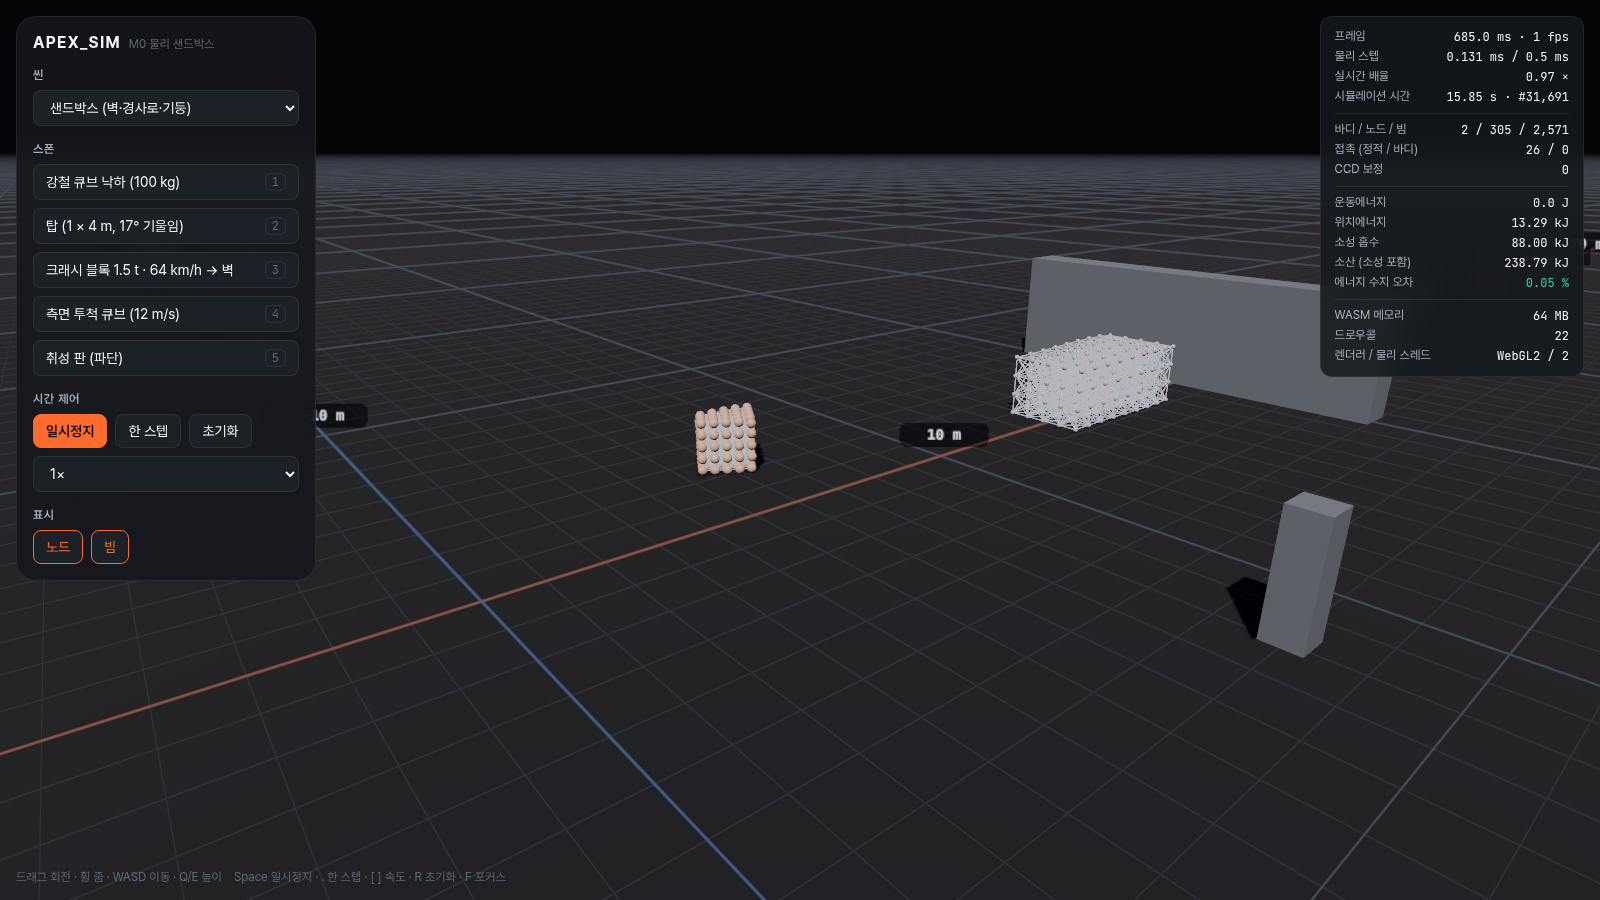
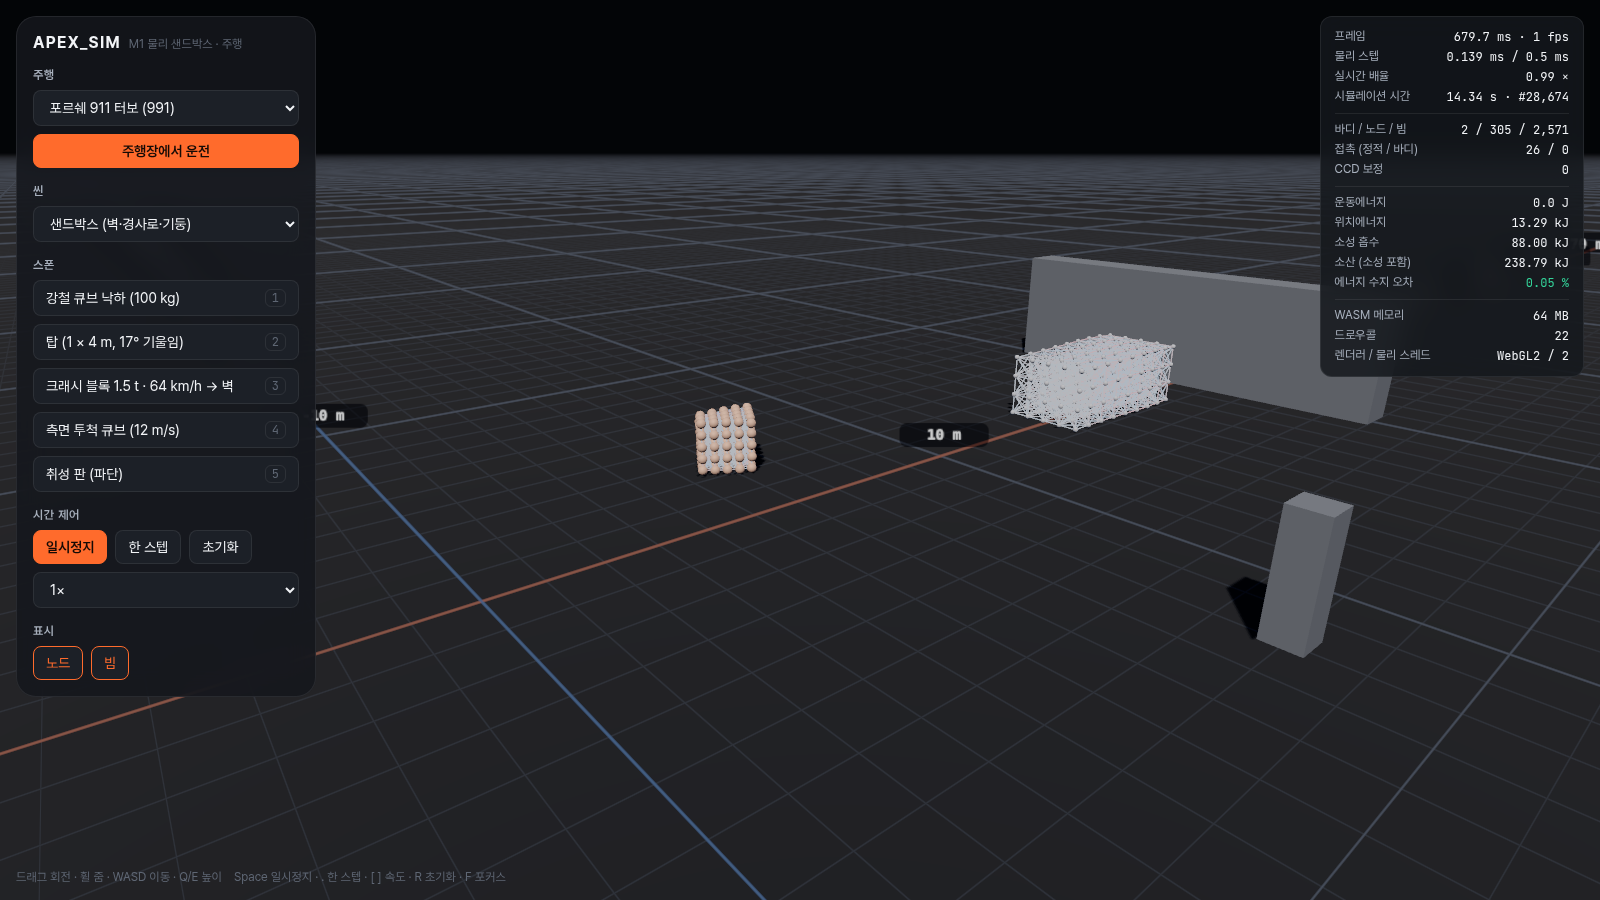
작업 스레드 풀 시작 경쟁 수정, 주행 E2E를 텔레메트리 기반으로, 주행 모드 패널 숨김
- JobSystem: 워커가 스케줄된 뒤 세대 번호를 읽어, 새 스레드가 돌기 전에 시작된 첫 병렬 구간을
  건너뛰고 호출 스레드가 영원히 기다리던 문제(부하 중 결정론 테스트 멈춤). 생성 시점 세대로 시작
- E2E 주행: 헤드리스 렌더가 초당 약 1프레임이라 입력이 늦게 닿아 차가 300 m 앞 벽까지 달려
  충돌·전복했다. 각 단계를 속도·방향 텔레메트리로 끝내고, 정지 직전에 브레이크를 놓는다(후진 선택 방지)
- [hidden]이 컴포넌트의 display 규칙을 이기게 함(주행 모드에서 샌드박스 패널이 보이던 문제)
- 아티팩트 해시 경로에 차량 선택(#drive.<id>), M1 보고서·CHANGELOG 갱신

Claude-Session: https://claude.ai/code/session_01FHJ8hXFhW8w9TFuDVMHqWv

diff --git a/apex-sim/web/src/ui/styles.css b/apex-sim/web/src/ui/styles.css
@@ -33,6 +33,7 @@
 }
 
 * { box-sizing: border-box; margin: 0; padding: 0; }
+[hidden] { display: none !important; } /* components set display: flex/grid; `hidden` must still win */
 html, body { width: 100%; height: 100%; overflow: hidden; background: var(--bg); color: var(--text); font-family: var(--font-ui); font-size: 14px; -webkit-font-smoothing: antialiased; }
 #view { position: fixed; inset: 0; width: 100%; height: 100%; display: block; outline: none; }
 

diff --git a/apex-sim/core/src/job_system.cpp b/apex-sim/core/src/job_system.cpp
@@ -14,7 +14,11 @@ constexpr int kSpinPolls = 200000;
 JobSystem::JobSystem(int threadCount) {
   const int extra = std::max(0, threadCount - 1);
   workers_.reserve(static_cast<size_t>(extra));
-  for (int i = 0; i < extra; ++i) workers_.emplace_back([this] { workerLoop(); });
+  // Workers start from the generation of *now*, not from whatever they read once scheduled: a first parallelFor
+  // issued before a new thread ran would otherwise already be counted as seen, and the caller would wait for that
+  // worker forever (a hang that showed on a loaded machine).
+  const unsigned start = generation_.load(std::memory_order_acquire);
+  for (int i = 0; i < extra; ++i) workers_.emplace_back([this, start] { workerLoop(start); });
 }
 
 JobSystem::~JobSystem() {
@@ -58,8 +62,7 @@ void JobSystem::parallelFor(int count, const std::function<void(int)>& fn) {
   fn_ = nullptr;
 }
 
-void JobSystem::workerLoop() {
-  unsigned seen = generation_.load(std::memory_order_acquire);
+void JobSystem::workerLoop(unsigned seen) {
   for (;;) {
     int polls = 0;
     while (generation_.load(std::memory_order_acquire) == seen && polls < kSpinPolls) ++polls;

diff --git a/apex-sim/core/include/sbc/job_system.h b/apex-sim/core/include/sbc/job_system.h
@@ -26,7 +26,7 @@ class JobSystem {
   void parallelFor(int count, const std::function<void(int)>& fn);
 
  private:
-  void workerLoop();
+  void workerLoop(unsigned seen);
   void runItems();
 
   std::vector<std::thread> workers_;

diff --git a/apex-sim/docs/reports/M1.md b/apex-sim/docs/reports/M1.md
@@ -17,9 +17,9 @@
 
 ## 테스트
 
-- 코어 네이티브: **56/56**(`npm run core:test`), WASM(Node): 같은 스위트, 네이티브와 해시 일치(`npm run core:test:wasm`)
+- 코어 네이티브: **56/56**(1,785 검사, `npm run core:test`), WASM(Node): 같은 스위트, 네이티브와 해시 일치(`npm run core:test:wasm`)
 - 웹 단위: 7/7(`npm test`)
-- E2E(`npm run test:e2e`, 헤드리스 Chromium, WebGL2 — KNOWN_ISSUES W1): 브라우저 골든 해시 = 네이티브, 샌드박스·차고 스크린샷, **주행**(E2E_DRIVE)
+- E2E(`npm run test:e2e`, 헤드리스 Chromium, WebGL2 — KNOWN_ISSUES W1): 브라우저 골든 해시 = 네이티브, 샌드박스·차고 스크린샷, **주행**: 정지 0.0 km/h → W로 93 km/h(2단 이상) → A로 방향 0.27 rad 전환 → S로 정지, 최소 up.y 0.999(전복 없음), 콘솔 오류 없음. 헤드리스 렌더가 초당 약 1프레임이라 각 단계는 벽시계가 아니라 텔레메트리(속도·방향)로 끝낸다
 
 새 테스트:
 - `Porsche 911 Turbo: a wall crash in the drive scene keeps the energy books` — 90 km/h 전속 벽 충돌, 튕김·착지 포함 수지 오차 < 최대 운동에너지의 3%(측정 0.7%)
@@ -27,6 +27,7 @@
 
 ## 이번 단계에서 찾아 고친 물리 결함
 
+- **작업 스레드 풀 시작 경쟁**: 새 워커가 스케줄되기 전에 첫 병렬 구간이 시작되면 그 워커가 구간을 건너뛰고, 호출 스레드는 영원히 기다렸다(부하 중 결정론 테스트 멈춤). 생성 시점의 세대 번호로 시작하게 고침
 - **CCD 동결**: 스텝마다 지면 아래로 눌리는 노드를 CCD가 충돌 시점으로 되감으면서 접선 이동까지 지웠다. 노드는 멈추고 접선 속도만 수백 m/s로 커져, 빔 감쇠가 0.1초 만에 23 MJ을 차에 넣었다(벽 충돌 후 착지하던 트레드 노드). 이제 끝점을 표면에 투영해 침투만 지운다
 - 주행 씬 콘이 노드 반경만큼 땅에 묻혀 생성돼 첫 스텝에 30 m 튀어 오름
 - 램프 쐐기 아랫면(한쪽 면 삼각형)이 트레드 노드를 아래로 끌어 에너지 폭주
@@ -45,8 +46,8 @@
 
 ## 스크린샷 (`docs/screenshots/`)
 
-- `M1-drive-launch.png` — 포르쉐 발진(추적 카메라, 계기판)
-- `M1-drive-turn.png` — 좌회전
+- `M1-drive-launch.png` — 포르쉐 발진(추적 카메라, 계기판, 117 km/h 6단)
+- `M1-drive-turn.png` — 좌회전·제동 뒤 정지
 - `M1-garage-user-cars.png` — 차고의 세 차
 
 ## 변경 요약

diff --git a/apex-sim/CHANGELOG.md b/apex-sim/CHANGELOG.md
@@ -32,6 +32,8 @@
 
 ### 수정
 - **CCD가 지면에 눌린 노드를 얼려 에너지를 만들던 문제**: 클램프가 충돌 시점으로 되감으면서 그 스텝의 접선 이동까지 지웠다. 매 스텝 지면 아래로 눌리는 노드(착지 충격을 받은 타이어 트레드 노드)는 제자리에 멈춘 채 접선 속도만 수백 m/s로 커졌고, 빔 감쇠가 그것을 차 전체로 옮겨 0.1초 만에 23 MJ의 수지 오차를 냈다. 이제 끝점을 표면에 투영해 침투만 지운다(삼각형 밖으로 나가면 충돌 시점으로 대체). 90 km/h 전속 벽 충돌의 수지 오차 5.4 kJ(최대 운동에너지의 0.7%)
+- **작업 스레드 풀의 시작 경쟁으로 인한 멈춤**: 워커가 스케줄된 뒤에 세대 번호를 읽어, 새 스레드가 돌기 전에 첫 병렬 구간이 시작되면 그 구간을 이미 본 것으로 여기고 참여하지 않았다. 호출 스레드는 그 워커를 영원히 기다렸다(부하가 걸린 기기에서 스레드 수 결정론 테스트가 멈춤). 이제 생성 시점의 세대 번호로 시작한다. 부하 중 병렬 12회 반복 통과
+- 주행 모드에서 샌드박스 패널이 `hidden`인데도 보이던 문제(`display` 규칙이 `hidden`을 덮음)
 - 주행 씬의 콘이 노드 반경만큼 지면에 묻힌 채 생성돼 첫 스텝에 30 m 튀어 오르던 문제
 - 램프 쐐기의 아랫면(한쪽 면 정적 삼각형)이 반경 안의 트레드 노드를 아래로 끌던 문제: 아랫면 제거, 허브에서 멀어지는 쪽을 향한 트레드 접촉은 노면 평면 재구성에서 제외
 - 고속(약 210 km/h 이상)에서 네 바퀴가 같은 위상으로 10 Hz 홉을 일으키던 문제. 원인은 반경 스프링이 링 질량 중심의 높이를 쟀던 것(접지면이 눌리면 질량 중심이 올라가 스프링이 눌릴수록 약해짐)
